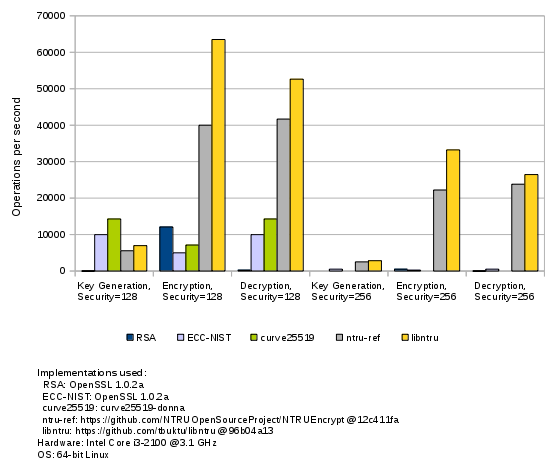
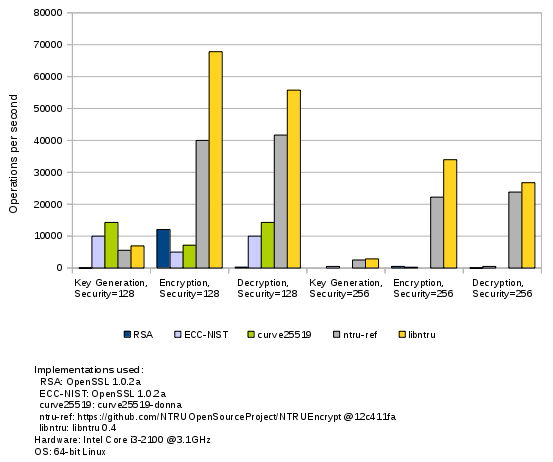
libntru 0.4

diff --git a/libntru-0.4.html b/libntru-0.4.html
@@ -50,17 +50,32 @@ Released   : 20110123
 				<!-- end #menu -->
 				<div id="content">
 					<div class="post">
-						<h2 class="title"><a href="#">NTRU Now Part of Bouncy Castle</a></h2>
+						<h2 class="title"><a href="#">libntru 0.4</a></h2>
 <!--
 						<p class="meta">Posted by <a href="#">Someone</a> on March 10, 2010
 							&nbsp;&bull;&nbsp; <a href="#" class="comments">Comments (64)</a> &nbsp;&bull;&nbsp; <a href="#" class="permalink">Full article</a></p>
 -->
 						<div class="entry">
+							<p>Version 0.4 of libntru was released May 4, 2015.</p>
 							<p>
-							As of <a href="https://bouncycastle.org/java.html">Bouncy Castle</a> 1.47, the <a href="https://bouncycastle.org/latest_releases.html"><b>bcprov-ext</b> and <b>lcrypto</b> releases</a> of Bouncy Castle contain an NTRU implementation. It is based on version 1.0 of this library.<p/>
-							<p>Note that the regular <b>bcprov-jdk</b> release does not provide NTRU due to patent restrictions.</p>
-							<p><img src="images/download.png">
-							<a href="https://bouncycastle.org/latest_releases.html">Bouncy Castle download page</a><br/>
+							Changes since 0.3:<br/>
+							<ul>
+							<li>massive performance improvements</li>
+							<li>new Makefile targets for distros (thanks Julian Ospald)</li>
+							<li>made the library C++ friendly (thanks Ruben De Smet)</li>
+							<li>new functions: ntru_params_from_key_pair() and ntru_params_from_priv_key()</li>
+							<li>fixed a memory leak</li>
+							<li>fixed parameter values</li>
+							<li>fixed data-dependent branches</li>
+							</ul>
+							</p><p>
+							Benchmark results:<br/>
+							<img src="images/bench.png"/>
+							</p><p>
+							<img src="images/download.png">
+							Download the sources at <a href="https://github.com/tbuktu/libntru/releases/tag/0.4">https://github.com/tbuktu/libntru/releases/tag/0.4</a>.
+							</p><p>
+							Or go to the GitHub repo at <a href="https://github.com/tbuktu/libntru">https://github.com/tbuktu/libntru</a>.
 							</p><p>
 						</div>
 					</div>
@@ -96,13 +111,13 @@ Released   : 20110123
 						<li>
 							<h2>News</h2>
 							<ul>
-								<li><a href="libntru-0.4.html">5-4-2015: libntru 0.4 released</a></li>
+                                                                <li>5-4-2015: libntru 0.4 released</li>
 								<li><a href="libntru-0.3.html">11-14-2014: libntru 0.3 released</a></li>
-                                                                <li><a href="libntru-0.2.html">3-30-2014: libntru 0.2 released</a></li>
+								<li><a href="libntru-0.2.html">3-30-2014: libntru 0.2 released</a></li>
 								<li><a href="ntru12.html">5-20-2012: NTRU 1.2 released</a></li>
-                                                                <li>3-21-2012: NTRU in Bouncy Castle</li>
-                                                                <li><a href="libntru-0.1.html">3-19-2012: libntru 0.1 released</a></li>
-                                                                <li><a href="ntru11.html">12-2-2011: NTRU 1.1 released</a></li>
+                                                                <li><a href="bc.html">3-21-2012: NTRU in Bouncy Castle</a></li>
+								<li><a href="libntru-0.1.html">3-19-2012: libntru 0.1 released</a></li>
+								<li><a href="ntru11.html">12-2-2011: NTRU 1.1 released</a></li>
 							</ul>
 						</li>
 						<li>

diff --git a/index.html b/index.html
@@ -103,6 +103,7 @@ The C source code is available on <a href="https://github.com/tbuktu/libntru">Gi
 						<li>
 							<h2>News</h2>
 							<ul>
+								<li><a href="libntru-0.4.html">5-4-2015: libntru 0.4 released</a></li>
 								<li><a href="libntru-0.3.html">11-14-2014: libntru 0.3 released</a></li>
                                                                 <li><a href="libntru-0.2.html">3-30-2014: libntru 0.2 released</a></li>
 								<li><a href="ntru12.html">5-20-2012: NTRU 1.2 released</a></li>

diff --git a/libntru-0.2.html b/libntru-0.2.html
@@ -106,6 +106,7 @@ Released   : 20110123
 						<li>
 							<h2>News</h2>
 							<ul>
+								<li><a href="libntru-0.4.html">5-4-2015: libntru 0.4 released</a></li>
                                                                 <li><a href="libntru-0.3.html">11-14-2014: libntru 0.3 released</a></li>
                                                                 <li>3-30-2014: libntru 0.2 released</li>
 								<li><a href="ntru12.html">5-20-2012: NTRU 1.2 released</a></li>

diff --git a/libntru-0.1.html b/libntru-0.1.html
@@ -97,6 +97,7 @@ Released   : 20110123
 						<li>
 							<h2>News</h2>
 							<ul>
+								<li><a href="libntru-0.4.html">5-4-2015: libntru 0.4 released</a></li>
 								<li><a href="libntru-0.3.html">11-14-2014: libntru 0.3 released</a></li>
                                                                 <li><a href="libntru-0.2.html">3-30-2014: libntru 0.2 released</a></li>
 								<li><a href="ntru12.html">5-20-2012: NTRU 1.2 released</a></li>

diff --git a/ntru12.html b/ntru12.html
@@ -119,6 +119,7 @@ Released   : 20110123
 						<li>
 							<h2>News</h2>
 							<ul>
+								<li><a href="libntru-0.4.html">5-4-2015: libntru 0.4 released</a></li>
 								<li><a href="libntru-0.3.html">11-14-2014: libntru 0.3 released</a></li>
                                                                 <li><a href="libntru-0.2.html">3-30-2014: libntru 0.2 released</a></li>
 								<li>5-20-2012: NTRU 1.2 released</li>

diff --git a/libntru-0.3.html b/libntru-0.3.html
@@ -104,6 +104,7 @@ Released   : 20110123
 						<li>
 							<h2>News</h2>
 							<ul>
+								<li><a href="libntru-0.4.html">5-4-2015: libntru 0.4 released</a></li>
                                                                 <li>11-14-2014: libntru 0.3 released</li>
 								<li><a href="libntru-0.2.html">3-30-2014: libntru 0.2 released</a></li>
 								<li><a href="ntru12.html">5-20-2012: NTRU 1.2 released</a></li>

diff --git a/ntru11.html b/ntru11.html
@@ -108,6 +108,7 @@ Released   : 20110123
 						<li>
 							<h2>News</h2>
 							<ul>
+								<li><a href="libntru-0.4.html">5-4-2015: libntru 0.4 released</a></li>
 								<li><a href="libntru-0.3.html">11-14-2014: libntru 0.3 released</a></li>
 
                                                                 <li><a href="libntru-0.2.html">3-30-2014: libntru 0.2 released</a></li>
